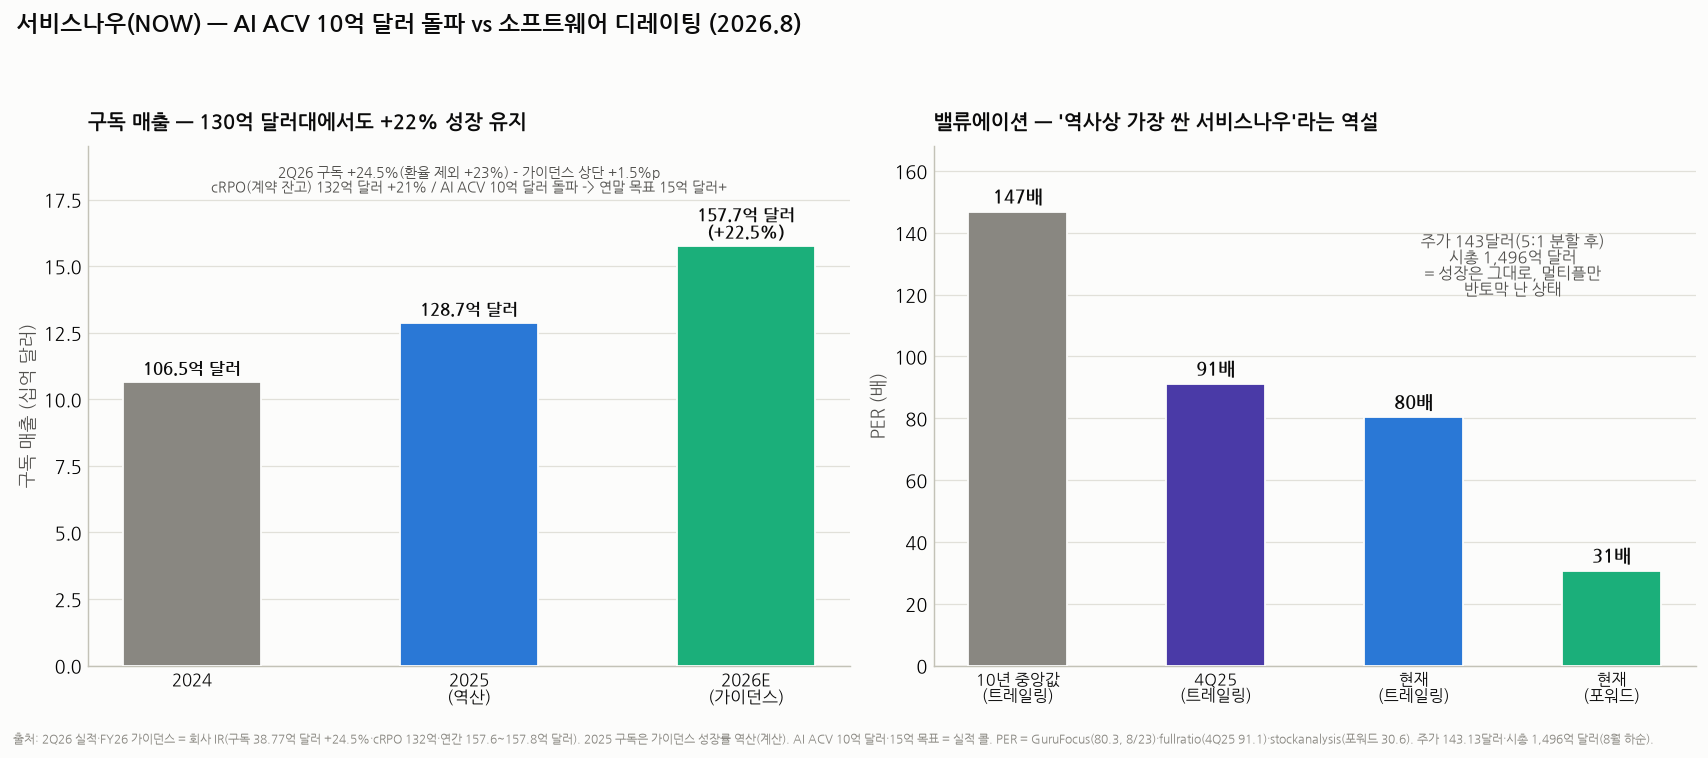
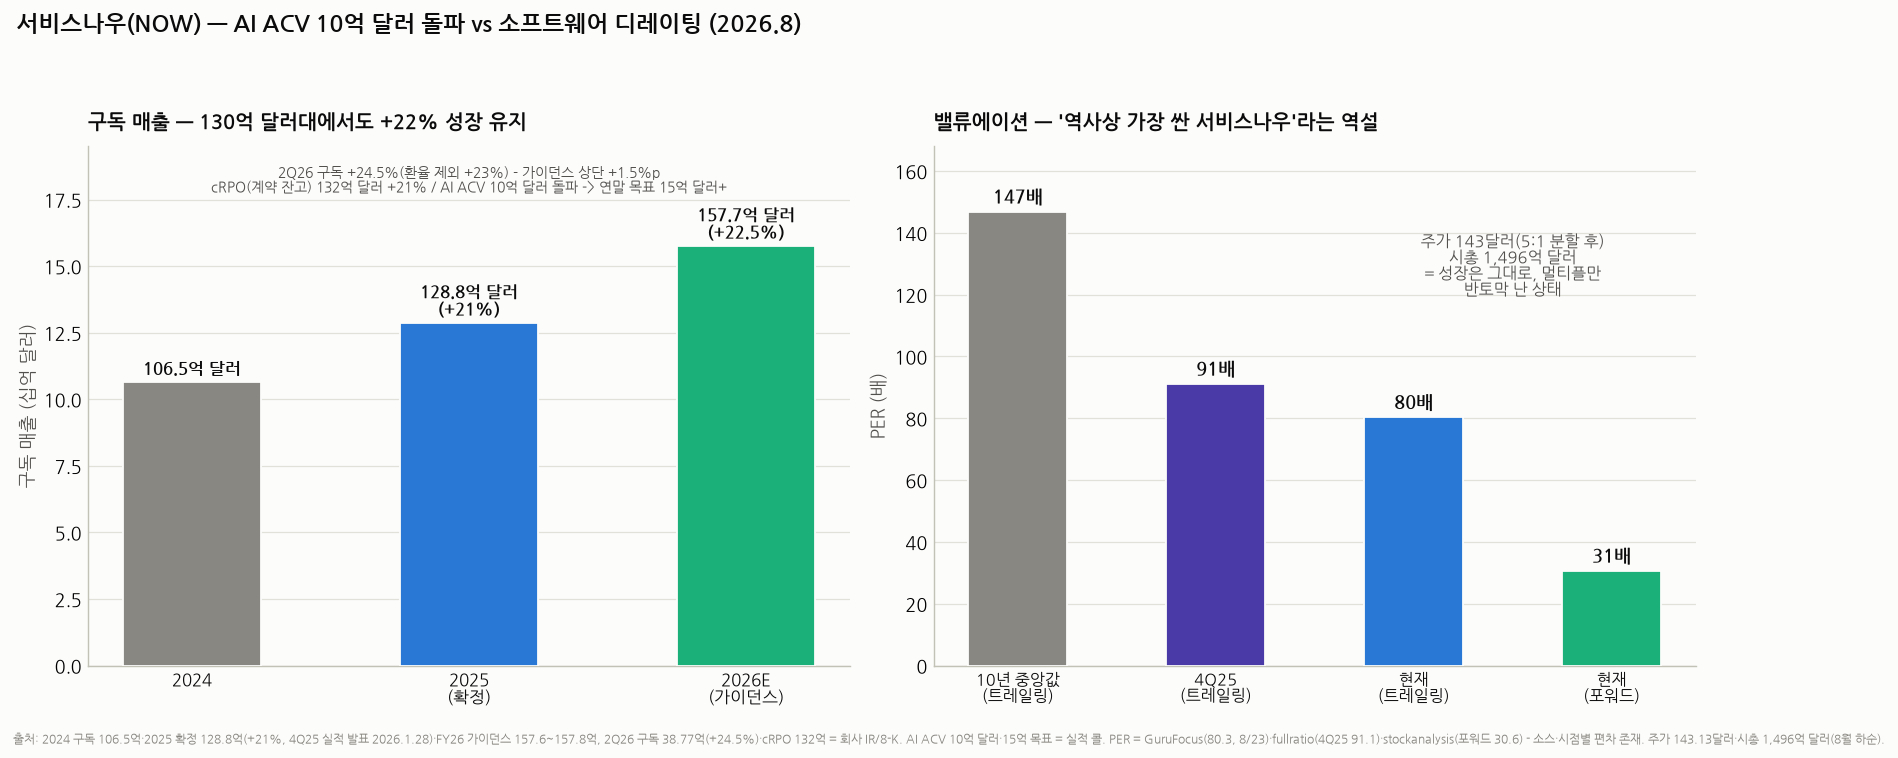
서비스나우 숫자 정합성 재검증 — 2025 확정치 교체 + 정합성 노트(§7) 추가
- 2025 구독 매출: 역산 128.7억 -> 확정 공시 128.8억 달러(+21%, 4Q25 발표 2026.1.28)로 교체 (차트 01·개요편·심화편 표)
- 개요편 §7 신설: 소스마다 숫자가 다른 5가지 이유(구독 vs 총매출 / GAAP 4% vs 비GAAP 30% / PER 61~147배 시점·방식 / 5:1 분할 전후 주가 / ACV vs 매출)
- 4Q25 실적 발표·CNBC 출처 추가

Claude-Session: https://claude.ai/code/session_01EETVc5VerPTsoLzLjbKW4K

diff --git a/해외주식/종목분석/서비스나우_심층분석리포트.md b/해외주식/종목분석/서비스나우_심층분석리포트.md
@@ -1,7 +1,7 @@
 # 서비스나우(NOW) 심층분석 — "AI가 SaaS를 죽인다"는 공포의 최전선에서, AI로 돈을 벌기 시작한 회사
 
 > 작성일: 2026-08-20 · 카테고리: 해외주식/종목분석 (저장소 첫 해외주식 리포트 · 시리즈 ① 개요편 — ② `서비스나우_심화분석_v2_사업해부_AI_ACV_재무_경쟁` ③ `서비스나우_히스토리_ITSM왕조교체사`)
-> **검증 메모**: 2Q26 구독 매출 38.77억 달러(+24.5%, 환율 제외 +23%, 가이던스 상단 +1.5%p)·cRPO 132억 달러(+21%)·FY26 구독 가이던스 157.6~157.8억 달러(+22.5%)로 상향·AI ACV 10억 달러 돌파(순증 +40% QoQ, 연말 목표 15억 달러+ 유지)·에이전틱 AI 프로덕션 고객 9개월 새 9배·신규 비즈니스의 50%가 비(非)좌석형 딜·5:1 액면분할(2025.12.18 발효)·주가 143.13달러/시총 1,496억 달러·PER(트레일링 80.3배, 8/23 · 4Q25 91.1배 · 포워드 30.6배 · 10년 중앙값 146.8배)은 회사 IR·SEC 공시·복수 소스 검증. 2025 구독 매출(128.7억 달러)은 가이던스 성장률 역산(계산).
+> **검증 메모**: 2Q26 구독 매출 38.77억 달러(+24.5%, 환율 제외 +23%, 가이던스 상단 +1.5%p)·cRPO 132억 달러(+21%)·FY26 구독 가이던스 157.6~157.8억 달러(+22.5%)로 상향·AI ACV 10억 달러 돌파(순증 +40% QoQ, 연말 목표 15억 달러+ 유지)·에이전틱 AI 프로덕션 고객 9개월 새 9배·신규 비즈니스의 50%가 비(非)좌석형 딜·5:1 액면분할(2025.12.18 발효)·주가 143.13달러/시총 1,496억 달러·PER(트레일링 80.3배, 8/23 · 4Q25 91.1배 · 포워드 30.6배 · 10년 중앙값 146.8배)은 회사 IR·SEC 공시·복수 소스 검증. **2025 확정 실적: 구독 매출 128.8억 달러(+21%)·4Q25 구독 34.66억(+21%)·4Q25 말 cRPO 128.5억(+25%) — 4Q25 실적 발표(2026.1.28) 원문으로 재검증 완료(초판의 역산치 128.7억을 확정치로 교체).**
 
 ---
 
@@ -32,9 +32,9 @@
 
 ![성장·밸류](../img_서비스나우/01_성장밸류.png)
 
-| | 2024 | 2025(역산) | 2026E(가이던스) |
+| | 2024 | 2025(확정) | 2026E(가이던스) |
 |---|---|---|---|
-| 구독 매출 | 106.5억 달러 | ~128.7억 달러 | **157.6~157.8억 달러 (+22.5%)** |
+| 구독 매출 | 106.5억 달러 | **128.8억 달러 (+21%)** | **157.6~157.8억 달러 (+22.5%)** |
 
 - **2Q26**: 구독 38.77억 달러(+24.5%, cc +23%) — 가이던스 상단을 1.5%p 상회. cRPO(12개월 내 인식될 계약 잔고) 132억 달러(+21.5% cc, 가이던스 +2%p 상회). **연간 가이던스 상향**
 - 비트의 내용: 미 연방정부 수요 강세(온프레미스 구독 일부가 3Q에서 2Q로 당겨짐 — 3Q 가이던스 +20.5%로 낮아 보이는 이유이니 오독 주의)
@@ -74,11 +74,25 @@
 
 **개인 의견(가설)**: 이 종목은 지금 "AI가 SaaS를 죽인다"는 명제의 **공개 실험장**이다. 실험 결과가 나오기 전에 멀티플이 먼저 최악을 반영했다는 점(10년 중앙값의 절반)이 리스크 대비 보상을 만든다 — 분기마다 확인할 것은 단 세 개: ① AI 순증 ACV ② 비좌석 딜 비중 ③ FCF 마진. 셋 중 둘이 꺾이면 약세론이 이기고 있는 것이다.
 
+## 7. 숫자 정합성 노트 — 다른 데서 본 숫자와 다르게 보이는 5가지 이유
+
+서비스나우는 같은 분기를 놓고도 소스마다 숫자가 달라 보이는 대표적인 종목이다. 헷갈릴 때 이 표로 대조할 것:
+
+| 헷갈리는 지점 | 왜 달라 보이나 | 이 리포트의 기준 (1차 소스 앵커) |
+|---|---|---|
+| **매출이 38.8억? 39.9억?** | **구독 매출**(38.77억)과 **총매출**(39.9억 = 구독+컨설팅 1.1억)이 따로 보도됨 | 성장 분석은 구독 기준(회사 가이던스도 구독 기준). 2Q26 구독 38.77억(+24.5%) — 8-K |
+| **영업이익률이 4%? 30%?** | **GAAP**(2Q26 4.1%, 주식보상·상각 포함)과 **비GAAP**(20%대 후반~30%, 이를 제외)의 차이 — 미국 SaaS 공통의 이중 회계 | 둘 다 표기하되 괴리의 정체(SBC)를 §심화편 5에서 채점 |
+| **PER이 61배? 80배? 90배? 147배?** | ① 시점(폭락장에서 주가 급변동) ② TTM(과거 4분기) vs 포워드 ③ GAAP 순익이 작아 분모가 조금만 변해도 PER이 크게 출렁 ④ 147배는 '10년 중앙값'(현재가 아님) | 트레일링 80.3배(GuruFocus 8/23)·포워드 30.6배(stockanalysis)로 통일 — 다른 사이트의 61~90배도 시점·방식 차이일 뿐 오류 아님 |
+| **주가가 143달러? 700달러대?** | **2025.12.18 5:1 액면분할** — 분할 전 차트·기사(700~1,100달러대)와 분할 후(140달러대)가 혼재 | 분할 후 기준(143.13달러 = 분할 전 약 716달러) |
+| **AI 매출이 10억? 그보다 작게 본 기억?** | **ACV(연간 계약 가치)**는 매출이 아니라 계약의 연 환산액 — 손익계산서엔 이보다 늦게, 나눠서 반영. 과거 기사(2025년)의 AI 수치는 2.5억~7.5억대였고 빠르게 커져 온 것 | AI ACV 10억 달러(2Q26 실적 콜) — 매출 아님, §심화편 2 참조 |
+| (참고) 2025 연매출 | 초판에서 가이던스 역산 128.7억으로 썼던 것을 **확정 공시 128.8억(+21%)으로 교체** — 오차 0.1% | 4Q25 실적 발표(2026.1.28) 원문 |
+
 ---
 
 ## 참고 출처 (검증)
 
 - [ServiceNow IR — 2Q26 실적: 구독 38.77억 달러 +24.5%·cRPO 132억 +21%·FY26 가이던스 상향 157.6~157.8억 달러](https://investor.servicenow.com/news/news-details/2026/ServiceNow-Reports-Second-Quarter-2026-Financial-Results/default.aspx) · [SEC 8-K 원문](https://www.sec.gov/Archives/edgar/data/0001373715/000137371526000072/erq2fy26.htm)
+- [ServiceNow IR — 4Q·FY2025 실적(2026.1.28): 연간 구독 128.8억 달러(+21%)·4Q25 구독 34.66억(+21%)·cRPO 128.5억(+25%)·자사주 +50억 달러](https://investor.servicenow.com/news/news-details/2026/ServiceNow-Reports-Fourth-Quarter-and-Full-Year-2025-Financial-Results-Board-of-Directors-Authorizes-Additional-5B-for-Share-Repurchase-Program/default.aspx) · [CNBC — 4Q25 리뷰](https://www.cnbc.com/2026/01/28/servicenow-now-q4-2025-earnings-report.html)
 - [BigGo Finance — 2Q26 콜: AI ACV 10억 달러 돌파·보안 최고 성장·가이던스 상향](https://finance.biggo.com/news/US_NOW_2026-07-22) · [Enterprise DNA — 에이전틱 프로덕션 고객 9배·AI 딜 지표](https://enterprisedna.co/resources/news/servicenow-ai-acv-1-billion-agentic-enterprise-q2-2026/) · [TechTimes — 비좌석형 딜, 신규의 50% 도달](https://www.techtimes.com/articles/325759/20260827/servicenow-ai-revenue-crosses-1b-non-seat-deals-hit-50-new-business.htm)
 - [Investing.com — 2Q26: 매출 비트, AI 투자發 마진 압박](https://www.investing.com/news/company-news/servicenow-q2-2026-slides-revenue-beats-margins-face-ai-pressure-93CH-4807204)
 - [Capital.com/cbonds — 5:1 액면분할, 2025.12.18 발효](https://capital.com/en-int/analysis/servicenow-stock-split) · [ts2 — 2025 조정과 분할·AI 딜 정리](https://ts2.tech/en/servicenow-now-stock-5-for-1-split-ai-deals-and-2026-forecasts-after-a-2025-pullback/)
@@ -86,4 +100,4 @@
 
 **저장소 연계**: `음식료/삼양식품_밸류에이션딥다이브`(PEG 잣대) · `거시및정책/AI데이터센터_전력병목`(AI 인프라 수요의 반대편 — 소프트웨어 수익화) · `반도체/산업·테마분석/HBM 시리즈`(AI 캐펙스 사이클과의 연결)
 
-> 유의: 2025 구독 매출은 역산 근사치. PER은 소스·시점별 편차 존재(80~90배 트레일링). 비GAAP EPS 성장률·FCF 마진 최신 수치는 10-Q 확인 권장. 원화 환산 리스크 별도. 매수 추천 아님.
+> 유의: PER은 소스·시점별 편차 존재(80~90배 트레일링). 비GAAP EPS 성장률·FCF 마진 최신 수치는 10-Q 확인 권장. 원화 환산 리스크 별도. 매수 추천 아님.
